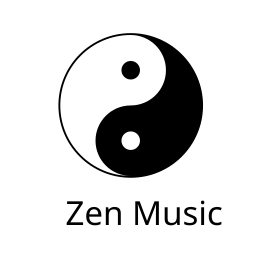
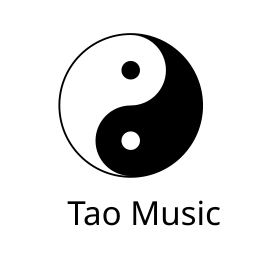
Add files via upload

Changed region(s): [[0.2286, 0.7143, 0.8, 0.8286]]

diff --git a/digivision/v2/cable.js b/digivision/v2/cable.js
@@ -64,7 +64,7 @@ function getchinfo() {
         ["Cartoon Network", "Cartoons"],
         ["Toonami Aftermath", "Cartoons and Anime"],
         ["TNT", "Movies TV shows and sports"],
-        ["Zen Music", "Traditional Asian music 24/7"],
+        ["Tao Music", "Traditional Asian music 24/7"],
         ["Channel Name", "Channel Description"],
     ];
     return chinfodb;